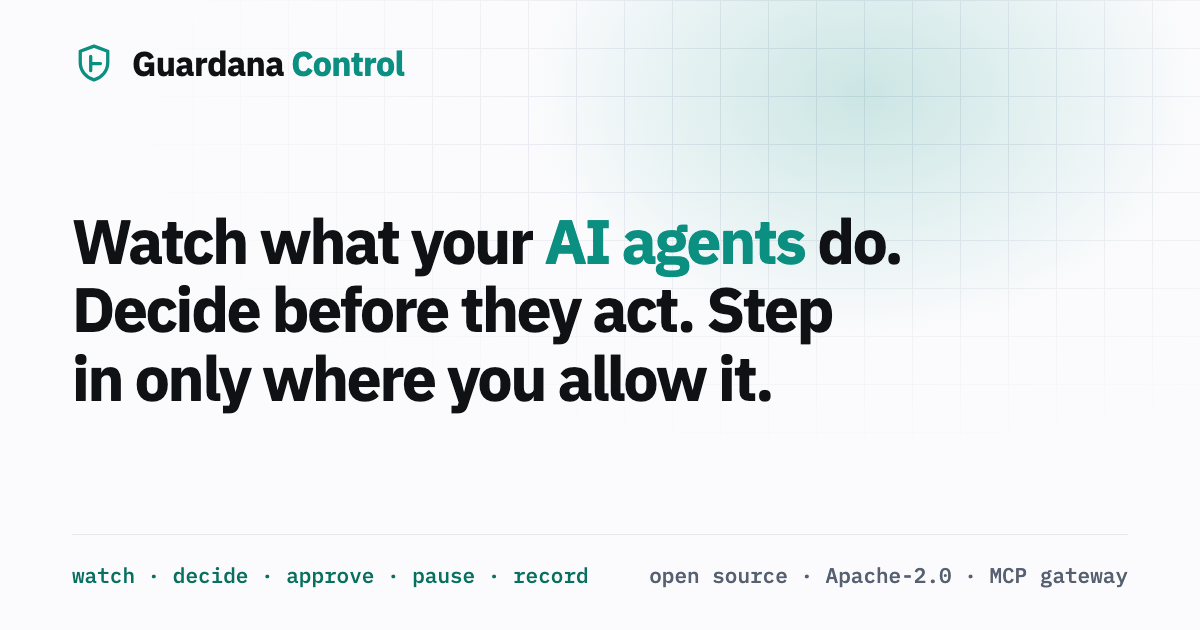
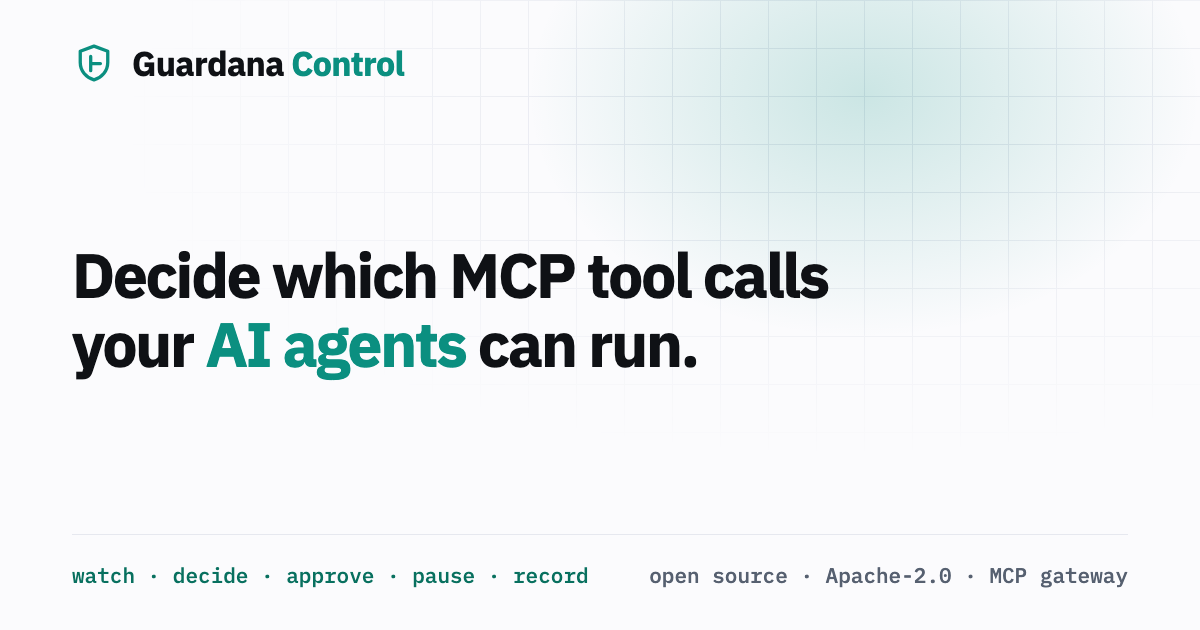
docs: the home page leads with what runs today, and a template for trial reports
The maintainer chose a hybrid: the headline says what works now, "Decide
which MCP tool calls your AI agents can run.", and the vision stays as the
line under it. The hero states what the gateway does not cover and offers
the demo and the guide for an existing setup; the planned tasks say what
each brings; a box asks for a report through a new issue template. The
caption "Watch by default" is gone: the enforcement mode has no default
(ADR-0032). The README's tagline, the social card and its image follow, and
status.md opens with what one can do today, the limits and what to
download.

Changed region(s): [[0.0617, 0.3317, 0.7708, 0.6635]]

diff --git a/site/index.html b/site/index.html
@@ -4,10 +4,10 @@
 <meta charset="utf-8"/>
 <meta name="viewport" content="width=device-width, initial-scale=1"/>
 <title>Guardana Control</title>
-<meta name="description" content="Watch what your AI agents do. Decide before they act. Step in only where you allow it."/>
+<meta name="description" content="Decide which MCP tool calls your AI agents can run. Watch what they do, and step in only where you allow it."/>
 <link rel="canonical" href="https://control.guardana.dev/"/>
 <meta property="og:title" content="Guardana Control"/>
-<meta property="og:description" content="Watch what your AI agents do. Decide before they act. Step in only where you allow it."/>
+<meta property="og:description" content="Decide which MCP tool calls your AI agents can run. Watch what they do, and step in only where you allow it."/>
 <meta property="og:type" content="website"/>
 <meta property="og:site_name" content="Guardana Control"/>
 <meta property="og:url" content="https://control.guardana.dev/"/>
@@ -15,7 +15,7 @@
 <meta property="og:image:type" content="image/png"/>
 <meta property="og:image:width" content="1200"/>
 <meta property="og:image:height" content="630"/>
-<meta property="og:image:alt" content="Guardana Control. Watch what your AI agents do. Decide before they act. Step in only where you allow it."/>
+<meta property="og:image:alt" content="Guardana Control. Decide which MCP tool calls your AI agents can run."/>
 <meta name="twitter:card" content="summary_large_image"/>
 <meta name="twitter:image" content="https://control.guardana.dev/og.png"/>
 <meta name="theme-color" content="#0B8F80"/>
@@ -38,13 +38,15 @@
 
 <main id="main">
 <section class="hero"><div class="wrap hero-inner">
-  <p class="pill"><i></i>Status: alpha</p>
-  <h1 class="tagline">Watch what your <span class="accent">AI agents</span> do. Decide before they act. Step in only where you allow it.</h1>
-  <p class="warn">Today: an <code class="st" data-status="Model Context Protocol (MCP) gateway">experimental</code> gateway decides and enforces the tool calls an agent makes over the Model Context Protocol (MCP), and an agent's runtime traces can be read beside it. <code>Planned</code>: framework hooks and proxy logs as further channels. <strong>Do not deploy this as a security boundary.</strong></p>
+  <p class="pill"><i></i>Open source · Experimental alpha</p>
+  <h1 class="tagline">Decide which MCP tool calls your <span class="accent">AI agents</span> can run.</h1>
+  <p class="sub">Watch what they do, and step in only where you allow it.</p>
+  <p class="warn">Put a local gateway between your MCP client and its servers. A signed policy decides each tool call: it runs, it is blocked with its reason, or that exact call waits for one approval. Each decision is recorded with the policy version that made it. The <code class="st" data-status="Model Context Protocol (MCP) gateway">experimental</code> gateway sees only the calls routed through it, and the caller's identity comes from its configuration, not from a login. <strong>Do not deploy this as a security boundary.</strong></p>
   <div class="ctas">
-    <a class="btn pri" href="/docs/get-started/try-the-demo">Try the demo</a>
-    <a class="btn sec" href="https://github.com/guardana/control">GitHub</a>
+    <a class="btn pri" href="/docs/get-started/try-the-demo">Run the local demo</a>
+    <a class="btn sec" href="/docs/guides/connect-an-existing-mcp-setup">Connect your MCP setup</a>
   </div>
+  <p class="note">The demo shows an allowed call, a blocked call and a one-time approval, with no Go and no model key. <a href="/docs/reference/mcp-coverage">What the gateway covers</a> · <a href="/docs/concepts/threat-model">What it does not protect</a></p>
 </div></section>
 
 <section class="s" id="what"><div class="wrap">
@@ -58,6 +60,7 @@
     <li><code>ALLOW_WITH_OBLIGATIONS</code><p>The action proceeds under conditions, enforced unless advisory.</p></li>
     <li><code>INDETERMINATE</code><p>The decision could not be made. It is never an allow.</p></li>
   </ul>
+  <p class="lede">No language model grants permission. Prompt and tool content capture is off by default, and hidden model reasoning is never stored.</p>
   <div class="verbs">
     <div class="verb"><p class="n">01</p><h3>Intercept</h3><p>The enforcement point sits between an agent and its MCP servers. It enforces the verdict except in <code>OBSERVE</code>; <code>APPROVE</code> and a pause can be stricter.</p><code class="cmd">guardana-gateway run --config &lt;file&gt;</code></div>
     <div class="verb"><p class="n">02</p><h3>Decide</h3><p>The built-in policy engine decides from signed policy bundles. An external decision point (PDP) can veto over AuthZEN but cannot grant. An approval lets one exact action run once, before it expires.</p><code class="cmd">guardana-control policy sign --key &lt;file&gt; --out &lt;file&gt; &lt;document&gt;</code></div>
@@ -108,21 +111,7 @@
   <a class="more" href="/docs/status">The full inventory</a>
 </div></section>
 
-<section class="s alt-bg" id="planned"><div class="wrap">
-  <p class="eyebrow">docs/backlog.md</p>
-  <h2>What is planned</h2>
-  <p class="lede">All tasks below are <code>planned</code>. They name work to do, not capabilities to claim.</p>
-  <ul class="items">
-    <li data-backlog="B10"><span class="id">B10</span><span class="t">Specify and build the enforcement API</span></li>
-    <li data-backlog="B11"><span class="id">B11</span><span class="t">Ship Python and one framework integration</span></li>
-    <li data-backlog="B21"><span class="id">B21</span><span class="t">Add sensors independent of the agent</span></li>
-    <li data-backlog="B12"><span class="id">B12</span><span class="t">Publish the port contracts and add TypeScript</span></li>
-    <li data-backlog="B13"><span class="id">B13</span><span class="t">Authenticate operators and scope authority</span></li>
-  </ul>
-  <a class="more" href="/docs/backlog">The delivery backlog</a>
-</div></section>
-
-<section class="s" id="going"><div class="wrap">
+<section class="s alt-bg" id="going"><div class="wrap">
   <p class="eyebrow">ROADMAP.md</p>
   <h2>Where it is going</h2>
   <p class="lede">Further work is <code>planned</code> in the <a href="/docs/roadmap">roadmap</a>. MCP is the first of several channels through which it sees what agents do. Today it keeps an agent's runtime traces as testimony: what the runtime says the agent did, never proof. It maps which declared paths a gateway enforces. It checks one run against its procedure and the exceptions the procedure allows, with the run's children where the procedure says so. It draws that run as a page, hands its alerts to a program, and stops one run on a confirmed finding where the operator allowed it. Planned next: sensors the agent cannot influence, such as the proxies its traffic passes through, and alerts to the tools an operator already watches.</p>
@@ -148,7 +137,7 @@
         <div class="card"><span class="k">Evidence export <span class="tag">experimental</span></span><span class="d">for your own programs to read</span></div>
       </div></div>
     </div>
-    <figcaption id="fig-going-cap">Watch by default, and step in only where you allow it.</figcaption>
+    <figcaption id="fig-going-cap">It watches the channels you connect, and steps in only where you allow it.</figcaption>
   </figure>
   <figure class="fig">
     <table class="runtable">
@@ -163,6 +152,24 @@
       </tbody>
     </table>
   </figure>
+</div></section>
+
+<section class="s" id="planned"><div class="wrap">
+  <p class="eyebrow">docs/backlog.md</p>
+  <h2>What is planned next</h2>
+  <p class="lede">All tasks below are <code>planned</code>. They name work to do, not capabilities to claim.</p>
+  <ul class="items">
+    <li data-backlog="B10"><span class="id">B10</span><span class="tx"><span class="t">Specify and build the enforcement API</span><span class="d">so a tool of your own, outside MCP, is decided the same way</span></span></li>
+    <li data-backlog="B11"><span class="id">B11</span><span class="tx"><span class="t">Ship Python and one framework integration</span><span class="d">so an agent written in Python is held to the same policy</span></span></li>
+    <li data-backlog="B21"><span class="id">B21</span><span class="tx"><span class="t">Add sensors independent of the agent</span><span class="d">so you see where its traffic went, from a source it cannot influence</span></span></li>
+    <li data-backlog="B12"><span class="id">B12</span><span class="tx"><span class="t">Publish the port contracts and add TypeScript</span><span class="d">so your own sensors and alerts plug in through published contracts</span></span></li>
+    <li data-backlog="B13"><span class="id">B13</span><span class="tx"><span class="t">Authenticate operators and scope authority</span><span class="d">so a small team works with one gateway, each person with their own rights</span></span></li>
+  </ul>
+  <a class="more" href="/docs/backlog">The delivery backlog</a>
+  <div class="ask">
+    <h3>Trying it with your own MCP setup?</h3>
+    <p>Tell us which client and server you use, where setup stopped, and which action you want to control. <a href="https://github.com/guardana/control/issues/new?template=try-it.md">Open a short report</a></p>
+  </div>
 </div></section>
 
 <section class="related alt-bg" id="related"><div class="wrap">

diff --git a/site/assets/control/control.css b/site/assets/control/control.css
@@ -41,6 +41,8 @@ code{font-family:var(--mono);font-size:.88em}
 .pill i{width:7px;height:7px;border-radius:50%;background:var(--high);box-shadow:0 0 0 4px color-mix(in srgb,var(--high) 22%,transparent)}
 h1{font-size:clamp(34px,6.2vw,64px);line-height:1.06;letter-spacing:-.035em;margin:0 0 24px;font-weight:700;overflow-wrap:break-word}
 h1 .accent{color:var(--brand)}
+.sub{font-size:clamp(18px,2.4vw,23px);font-weight:500;color:var(--ink);max-width:760px;margin:-8px auto 20px}
+.note{font-size:15px;color:var(--muted);max-width:720px;margin:22px auto 0}
 .warn{font-size:clamp(16px,2vw,19px);color:var(--muted);max-width:720px;margin:0 auto 34px}
 .warn strong{color:var(--ink);font-weight:600}
 .ctas{display:flex;gap:12px;justify-content:center;flex-wrap:wrap}
@@ -79,6 +81,10 @@ h3{font-size:18px;letter-spacing:-.01em;margin:0 0 8px;font-weight:600}
 .items .st.implemented{color:var(--brand-ink);border-color:color-mix(in srgb,var(--brand) 45%,var(--line));background:var(--brand-soft)}
 .items .id{color:var(--brand-ink)}
 .items span.t{font-size:15.5px;min-width:0;overflow-wrap:anywhere}
+.items .tx{display:flex;flex-direction:column;gap:4px;min-width:0}
+.items span.d{font-size:14.5px;line-height:1.5;color:var(--muted)}
+.ask{margin-top:48px;padding:24px 26px;border:1px solid var(--line);border-radius:14px;background:var(--panel);max-width:740px}
+.ask p{margin:0;color:var(--muted)}
 .more{display:inline-block;margin-top:22px;font-weight:600;font-size:15px}
 
 .related{padding:72px 0}

diff --git a/site/docs/status.html b/site/docs/status.html
@@ -107,6 +107,23 @@
 <p>What exists in this repository today, component by component. Every other
 document points here rather than keeping its own list, so this is the only
 inventory in the project and the one that has to be right.</p>
+<p>In short:</p>
+<ul>
+<li>What you can do today: put the gateway between an MCP client and its
+servers and decide each tool call from a signed policy, allowing it,
+blocking it or holding it for one approval of that exact call. Each decision
+is recorded with the policy version that made it. You can also check one
+opened run against its procedure, draw it as a page, hand its findings to a
+program, and stop that run where a signed route allows it.</li>
+<li>The limits: the gateway sees only the calls routed through it, the caller's
+identity comes from its configuration rather than a login, and the evidence
+trail is not tamper-evident. It is not a security boundary.</li>
+<li>What to download: the
+<a href="https://github.com/guardana/control/releases">latest release</a>'s demo
+archive runs the demo with no Go and no model key, its platform archive holds
+<code>guardana-gateway</code> and <code>guardana-control</code>, and the image <code>ghcr.io/guardana/control-gateway</code> holds the
+gateway. <a href="/docs/get-started/try-the-demo">The tutorial</a> starts there.</li>
+</ul>
 <p>What the labels mean:</p>
 <ul>
 <li><code>implemented</code>: it exists and a command in this repository exercises it.</li>

diff --git a/site/docs/changelog.html b/site/docs/changelog.html
@@ -119,6 +119,8 @@ published: each binary of every archive and the image's binary for
 linux/amd64 and linux/arm64, with <code>govulncheck</code> in binary mode
 (<code>scripts/scan-binaries.sh</code>). A known vulnerability, or a scan that could
 not run, stops the release; the dry run scans its archives and image too.</li>
+<li>An issue template for a report from trying it with your own MCP client and
+server.</li>
 </ul>
 <h3 id="changed">Changed</h3>
 <ul>
@@ -127,6 +129,11 @@ release is out, rather than the newest dated section of this file, and each
 page's footer links that release's documentation at its tag
 (<a href="/docs/adr/0049-the-site-names-the-published-release">ADR-0049</a>). The site
 had named 0.10.0-alpha a day before it was published.</li>
+<li>The home page leads with what runs today, a gateway that decides MCP tool
+calls, states what it does not cover, and says what each planned task
+brings. It no longer says the product watches by default: the enforcement
+mode has no default
+(<a href="/docs/adr/0032-the-enforcement-mode-has-no-default">ADR-0032</a>).</li>
 <li>CI's quality job may run 45 minutes; its fuzz smoke alone took 14 of the 30
 it had.</li>
 </ul>

diff --git a/scripts/og-card.html b/scripts/og-card.html
@@ -25,7 +25,7 @@ body::after{content:"";position:absolute;right:-12%;top:-40%;width:80%;height:11
 <body>
 <div class="card">
   <div class="mark"><svg viewBox="0 0 24 24" aria-hidden="true" fill="none" stroke="currentColor" stroke-width="1.8" stroke-linecap="round" stroke-linejoin="round"><path d="M12 2.8 4.5 5.6v6.1c0 4.6 3.2 8.2 7.5 9.5 4.3-1.3 7.5-4.9 7.5-9.5V5.6z"/><path d="M10.2 8.4v7.8M10.2 12.3h5.3"/></svg><span>Guardana <b>Control</b></span></div>
-  <p class="tagline">Watch what your <span>AI agents</span> do. Decide before they act. Step in only where you allow it.</p>
+  <p class="tagline">Decide which MCP tool calls your <span>AI agents</span> can run.</p>
   <div class="foot"><span class="verbs">watch · decide · approve · pause · record</span><span>open source · Apache-2.0 · MCP gateway</span></div>
 </div>
 </body>

diff --git a/docs/status.md b/docs/status.md
@@ -11,6 +11,23 @@ What exists in this repository today, component by component. Every other
 document points here rather than keeping its own list, so this is the only
 inventory in the project and the one that has to be right.
 
+In short:
+
+- What you can do today: put the gateway between an MCP client and its
+  servers and decide each tool call from a signed policy, allowing it,
+  blocking it or holding it for one approval of that exact call. Each decision
+  is recorded with the policy version that made it. You can also check one
+  opened run against its procedure, draw it as a page, hand its findings to a
+  program, and stop that run where a signed route allows it.
+- The limits: the gateway sees only the calls routed through it, the caller's
+  identity comes from its configuration rather than a login, and the evidence
+  trail is not tamper-evident. It is not a security boundary.
+- What to download: the
+  [latest release](https://github.com/guardana/control/releases)'s demo
+  archive runs the demo with no Go and no model key, its platform archive holds
+  `guardana-gateway` and `guardana-control`, and the image `ghcr.io/guardana/control-gateway` holds the
+  gateway. [The tutorial](get-started/try-the-demo.md) starts there.
+
 What the labels mean:
 
 - `implemented`: it exists and a command in this repository exercises it.

diff --git a/README.md b/README.md
@@ -2,7 +2,9 @@
 
 # <img src="site/assets/control/mark.svg" height="30" alt=""> Guardana Control
 
-**Watch what your AI agents do. Decide before they act. Step in only where you allow it.**
+**Decide which MCP tool calls your AI agents can run.**
+
+Watch what they do, and step in only where you allow it.
 
 [![CI](https://github.com/guardana/control/actions/workflows/ci.yml/badge.svg)](https://github.com/guardana/control/actions/workflows/ci.yml)
 [![Security](https://github.com/guardana/control/actions/workflows/security.yml/badge.svg)](https://github.com/guardana/control/actions/workflows/security.yml)
@@ -20,10 +22,10 @@
 ## Status: alpha
 
 An `experimental` gateway decides and enforces an agent's tool calls over the
-Model Context Protocol (MCP). Do not deploy this as a security
-boundary. The goal is to supervise an organization's agents on many channels:
-[ROADMAP.md](ROADMAP.md) describes it and [docs/status.md](docs/status.md) lists
-what exists. To try it, follow [the tutorial](docs/get-started/try-the-demo.md).
+Model Context Protocol (MCP). Do not deploy this as a security boundary.
+[ROADMAP.md](ROADMAP.md) describes the goal, supervising an organization's
+agents on many channels; [docs/status.md](docs/status.md) lists what exists.
+[The tutorial](docs/get-started/try-the-demo.md) runs the demo.
 
 ## The problem
 

diff --git a/CHANGELOG.md b/CHANGELOG.md
@@ -18,6 +18,8 @@ verify one.
   linux/amd64 and linux/arm64, with `govulncheck` in binary mode
   (`scripts/scan-binaries.sh`). A known vulnerability, or a scan that could
   not run, stops the release; the dry run scans its archives and image too.
+- An issue template for a report from trying it with your own MCP client and
+  server.
 
 ### Changed
 
@@ -26,6 +28,11 @@ verify one.
   page's footer links that release's documentation at its tag
   ([ADR-0049](docs/adr/0049-the-site-names-the-published-release.md)). The site
   had named 0.10.0-alpha a day before it was published.
+- The home page leads with what runs today, a gateway that decides MCP tool
+  calls, states what it does not cover, and says what each planned task
+  brings. It no longer says the product watches by default: the enforcement
+  mode has no default
+  ([ADR-0032](docs/adr/0032-the-enforcement-mode-has-no-default.md)).
 - CI's quality job may run 45 minutes; its fuzz smoke alone took 14 of the 30
   it had.
 

diff --git a/.github/ISSUE_TEMPLATE/try-it.md b/.github/ISSUE_TEMPLATE/try-it.md
@@ -1,0 +1,24 @@
+---
+name: I tried it with my own MCP setup
+about: What you connected, where setup stopped, and which action you want to control
+labels: "kind:trial"
+---
+
+## What you connected
+
+<!-- The MCP client and server you used, with their versions, and the
+     operating system. The release you downloaded, or the commit you built. -->
+
+## How far you got
+
+<!-- The last step that worked, and the first one that did not: the command,
+     what it printed, and the page of the documentation you were following. -->
+
+## The action you want to control
+
+<!-- A tool call you would allow, block or send for approval, and why. -->
+
+## What would have helped
+
+<!-- Optional: a missing step, an unclear message, a default you had to
+     change. -->
